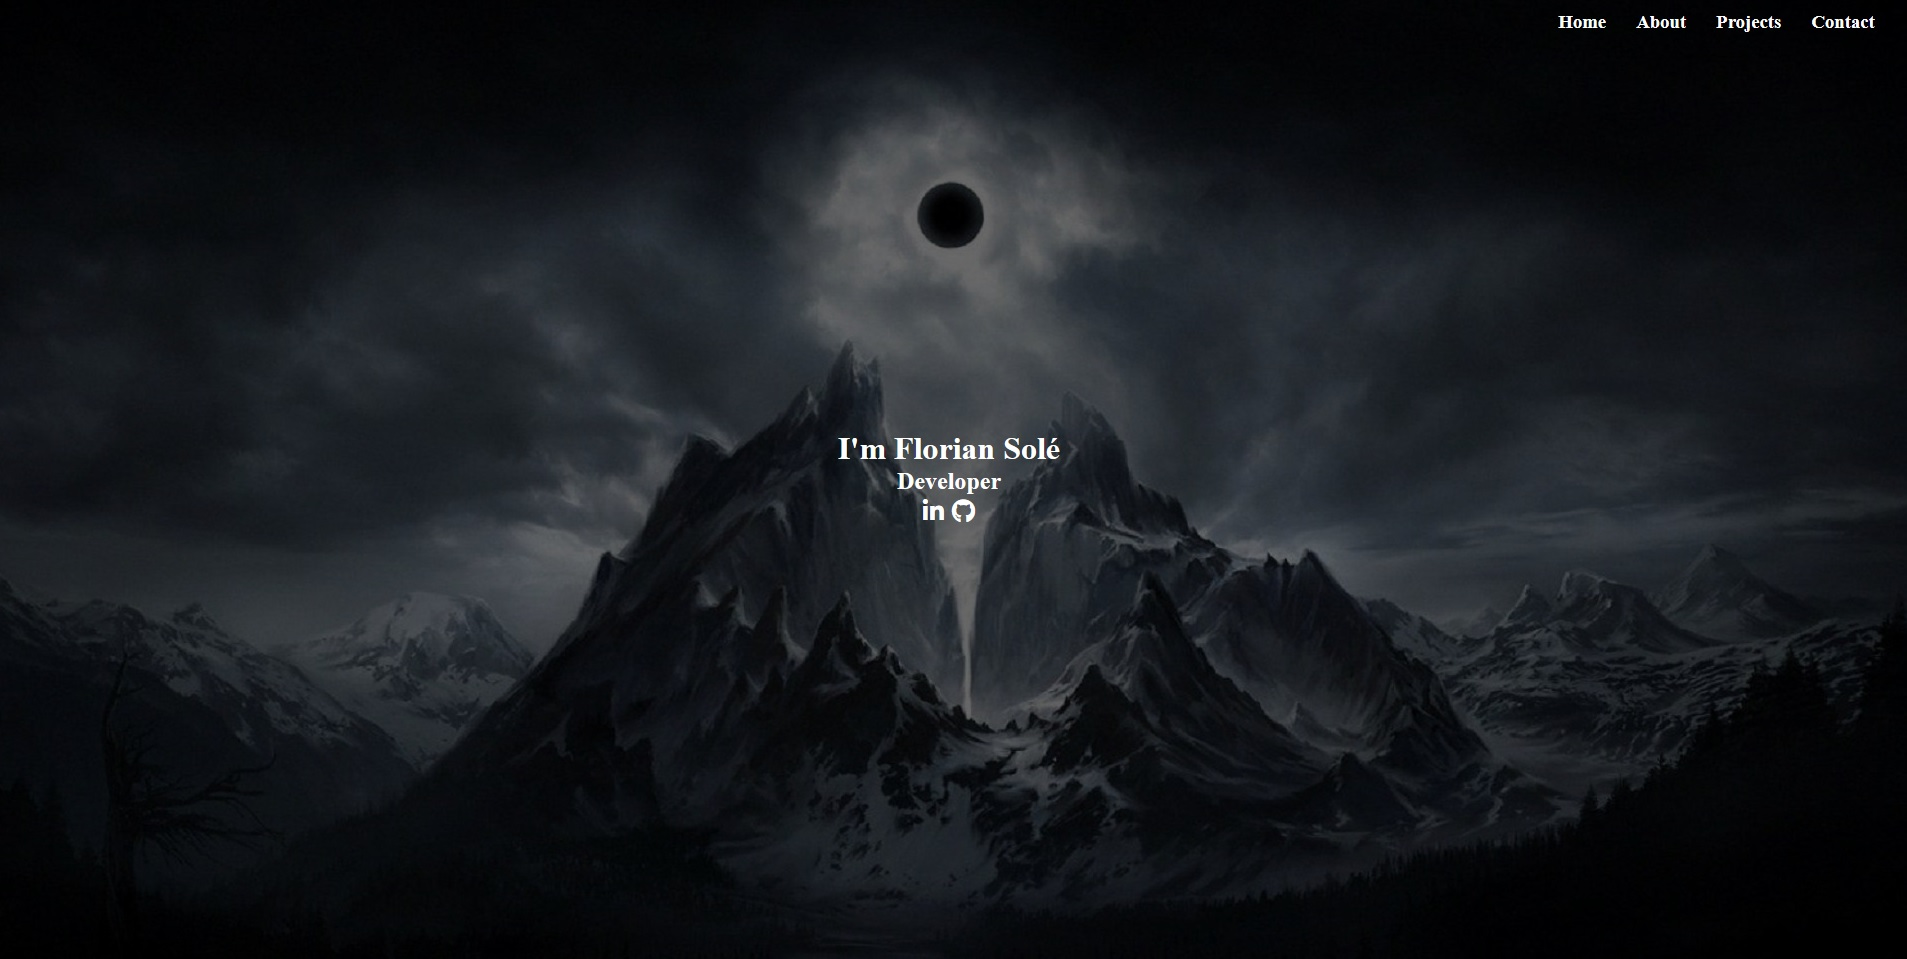
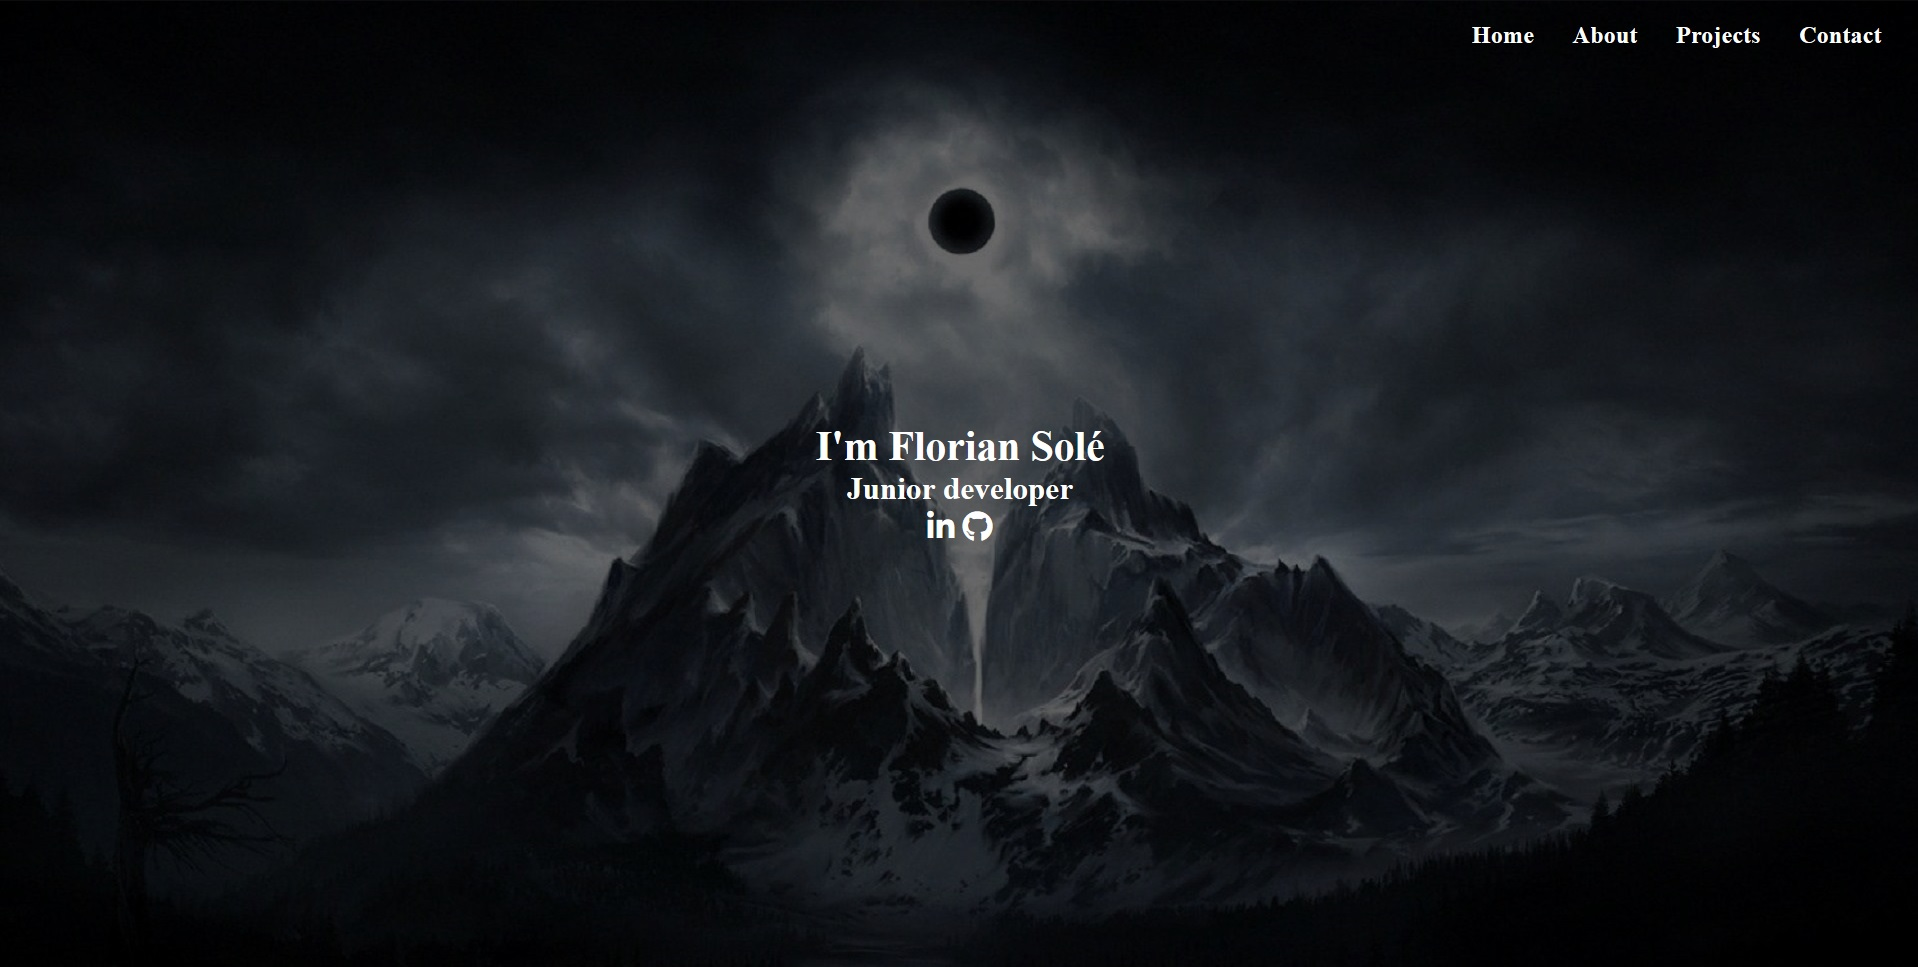
about me page styled

diff --git a/app.css b/app.css
@@ -103,38 +103,60 @@ background-color: #262626;
   background-color: white;
   color: black;
   margin: 0;
+  display: inline-block;
+  width: 100%;
 }
 
 .solid p {
     margin: 0;
 }
 
-.aboutPage h4 {
+.page h4 {
   margin: 0;
 }
 
-.projectsPage ul {
+.page ul {
   margin: 2rem;
 }
 
-.projectsPageHeader {
+.pageHeader {
+  margin: 2rem;
+  margin-bottom: 0;
+}
+
+.pageList {
+  display: flex;
   margin: 2rem;
 }
 
-.projectsPageList {
+.pageListHeader {
   display: flex;
 }
 
-.projectsPageList2 {
+.pageList2 {
   display: flex;
   direction: ltr;
+  margin: 1rem;
 }
 
-.pplText {
+.pageText {
   flex: 1;
 }
 
-.pplImage {
+.pageText p {
+  margin-top: 0;
+}
+
+.pplImageContainer {
   margin: 5%;
   margin-top: 0;
+}
+
+.pplImage {
+  box-shadow: 0 5px 10px white;
+}
+
+.aboutImage {
+  border-radius: 50%;
+  box-shadow: 0 5px 10px black;
 }

diff --git a/index.php b/index.php
@@ -29,30 +29,51 @@
     </div>
     <div id="Home" class="landingtext">
         <h1>I'm Florian Solé</h1>
-        <h2>Developer</h2>
+        <h2>Junior developer</h2>
         <ul>
             <li><a class="fab fa-linkedin-in" href="https://www.linkedin.com/in/florian-sol%C3%A9-76a6b6144/" target="_blank"></a></li>
             <li><a class="fab fa-github" href="https://github.com/FloNumbers?tab=repositories" target="_blank"></a></li>
         </ul>
     </div>
     <div class="solid">
-        <div id="About" class="aboutPage">
-            <h1>About Me</h1>
-            <p>I am Florian Solé. I was born in Tournai in Belgium, but i moved to the Netherlands when i was around 1
-                year old and still live there to this day.</p> <br>
-            <h4>School</h4>
-            <p>I am currently studying Application Developer at Scalda in Vlissingen. Before this I studied HBO-ICT at
-                the HZ university, but I didn't meet the
-                requirement to pass on to the next year. Despite all that, I'd say that I have found my passion in
-                programming and am surely planning on continuing this.</p> <br>
-            <h4>Hobbies</h4>
-            <p>In my free time you'll probably find me behind my computer playing some games. That does not mean I don't
-                do sports though. I am the goalkeeper for my
-                local waterpolo team, and I absolutely love to go windsurfing in the summer.</p>
+        <div id="About" class="page">
+            <div class="pageListHeader">
+                <div class="pageHeader">
+                    <h1>About Me</h1>
+                    <p>I am Florian Solé. I was born in Tournai in Belgium, but i moved to the Netherlands when i was around 1
+                        year old and still live there to this day.</p>
+                </div>
+                <div class="aboutImageContainer"><img style="margin-top:2rem;" class="aboutImage" src="assets\Flag_of_Belgium.png" width="100" height="100"></div>
+            </div>
+            <div class="pageList">
+                <div class="pageText"> 
+                    <h4>School</h4>
+                    <p>I am currently studying Application Developer at Scalda in Vlissingen. Before this I studied HBO-ICT at
+                        the HZ university, but I didn't meet the
+                        requirements to pass on to the next year. Despite all that, I'd say that I have found my passion in
+                        programming and am surely planning on continuing this.</p>
+                </div>
+                <div class="aboutImageContainer"><img class="aboutImage" src="assets\logo-Scalda.jpg" width="140" height="100"></div>
+            </div>
+            <div class="pageList">
+                <div class="pageText">
+                    <h4>Hobbies</h4>
+                    <p>In my free time you'll probably find me behind my computer playing some games. That does not mean I don't
+                        do sports though. I am the goalkeeper for my
+                        local waterpolo team, and I absolutely love to go windsurfing in the summer.</p>
+                </div>
+                <div class="aboutImageContainer"><img class="aboutImage" src="assets\windsurfen.jpg" width="100" height="100"></div>
+            </div>
+            <div class="pageList">
+                <h4>Work experience</h4>
+                <ul>
+                    <li><p></p></li>
+                </ul>
+            </div>
         </div>
     </div>
-    <div id="Projects" class="projectsPage">
-        <div class="projectsPageHeader">
+    <div id="Projects" class="page">
+        <div class="pageHeader">
             <h1>Projects</h1>
             <p>Ever since I started programming I have offcourse doen a couple of projects. Some I am defenitely more
                 proud of than others, but I'll list a few here.
@@ -64,8 +85,8 @@
         <ul>
             <li>
                 <h2><a style="color:white" href="https://sleepy-harbor-96591.herokuapp.com/" target="_blank">original portfolio</a></h2>
-                <div class="projectsPageList">
-                    <div class="ppl2Text">
+                <div class="pageList">
+                    <div class="pageText">
                         <p>As the first project I am listing here, you would probably think that this is the project that
                             I'm most proud of. But that is not the case here.
                             This project was my first ever github project. This project was meant as a portfolio assignement
@@ -76,21 +97,21 @@
                             achived with only 1 or 2 months of any coding experience.
                         </p>
                     </div>
-                    <div class="pplImage">
-                        <img src="assets\portfolioOriginal.jpg" width="500" height="300">
+                    <div class="pplImageContainer">
+                        <img class="pplImage" src="assets\portfolioOriginal.jpg" width="500" height="300">
                     </div>
                 </div>
             </li>
             <li style="text-align:right; direction:rtl">
                 <h2><a style="color:white;" href="https://flonumbers.github.io/basisschoolproject/" target="_blank">Bassisschoolproject</a></h2>
-                <div class="projectsPageList2">
-                    <div class="pplImage">
-                    <img src="assets\basisschoolProject.jpg" width="500" height="300">
+                <div class="pageList2">
+                    <div class="pplImageContainer">
+                        <img class="pplImage" src="assets\basisschoolProject.jpg" width="500" height="300">
                     </div>
-                    <div class="pplText">
+                    <div class="pageText">
                         <p>This one is another project I made for an assignement at the HZ university. This was a group
                             project that we had to make for a primary school.
-                            It had to be some kind of small game that had to do with a specific course they teached at
+                            It had to be some kind of small game that had to do with a specific course they taught at
                             that school. We chose history. The whole game is written in typescript
                             and is made in such a way that you never have to reload the page. You can even save your
                             progress if you don't delete your cookies.
@@ -103,16 +124,16 @@
             </li>
             <li>
                 <h2><a style="color:white" href="https://www.ditiseendomein.nl/" target="_blank">This very portfolio</a></h2>
-                <div class="projectsPageList">
-                    <div class="pplText">
+                <div class="pageList">
+                    <div class="pageText">
                         <p>So this very website you're in right now is also a school assignement, but this one is a school
                             assignement for my current school, Scalda.
                             I will be keeping this website up to date with new projects and thing I'm learning, so everyone
                             who's interested can take a peek.
                         </p>
                     </div>
-                    <div class="pplImage">
-                    <img src="assets\portfolioHuidig.jpg" width="500" height="300">
+                    <div class="pplImageContainer">
+                        <img class="pplImage" src="assets\portfolioHuidig.jpg" width="500" height="300">
                     </div>
                 </div>
             </li>
